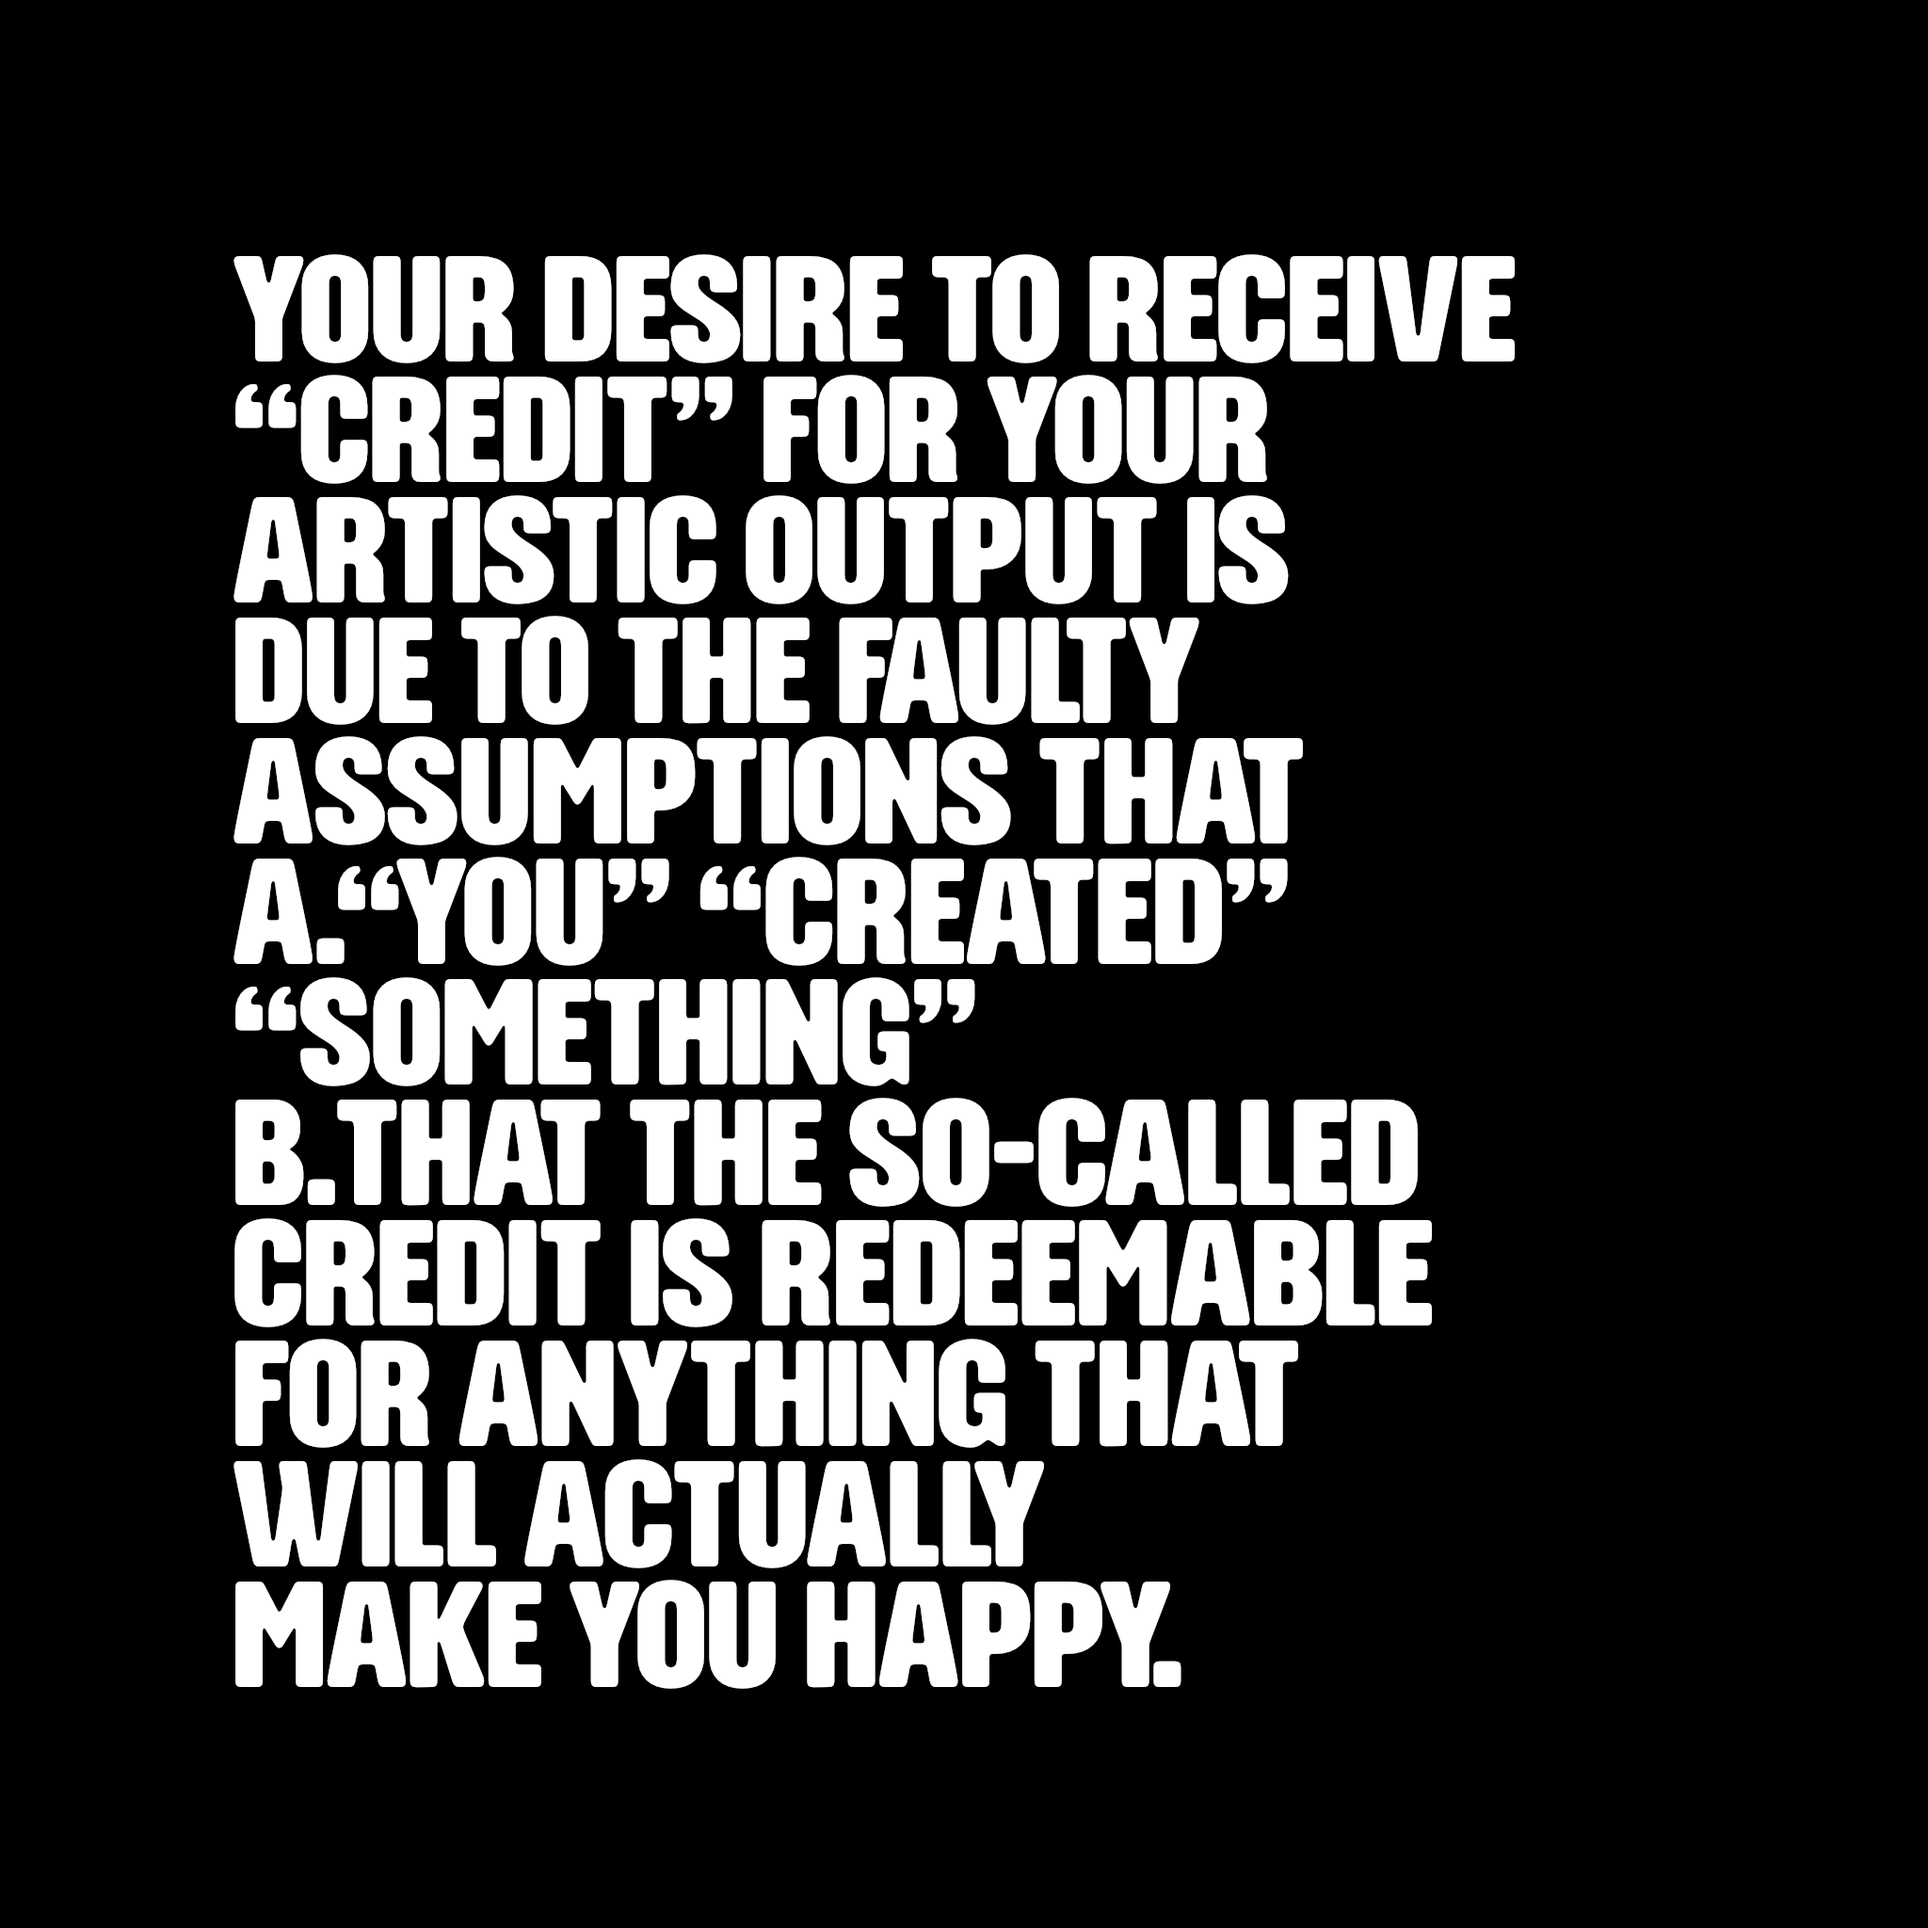
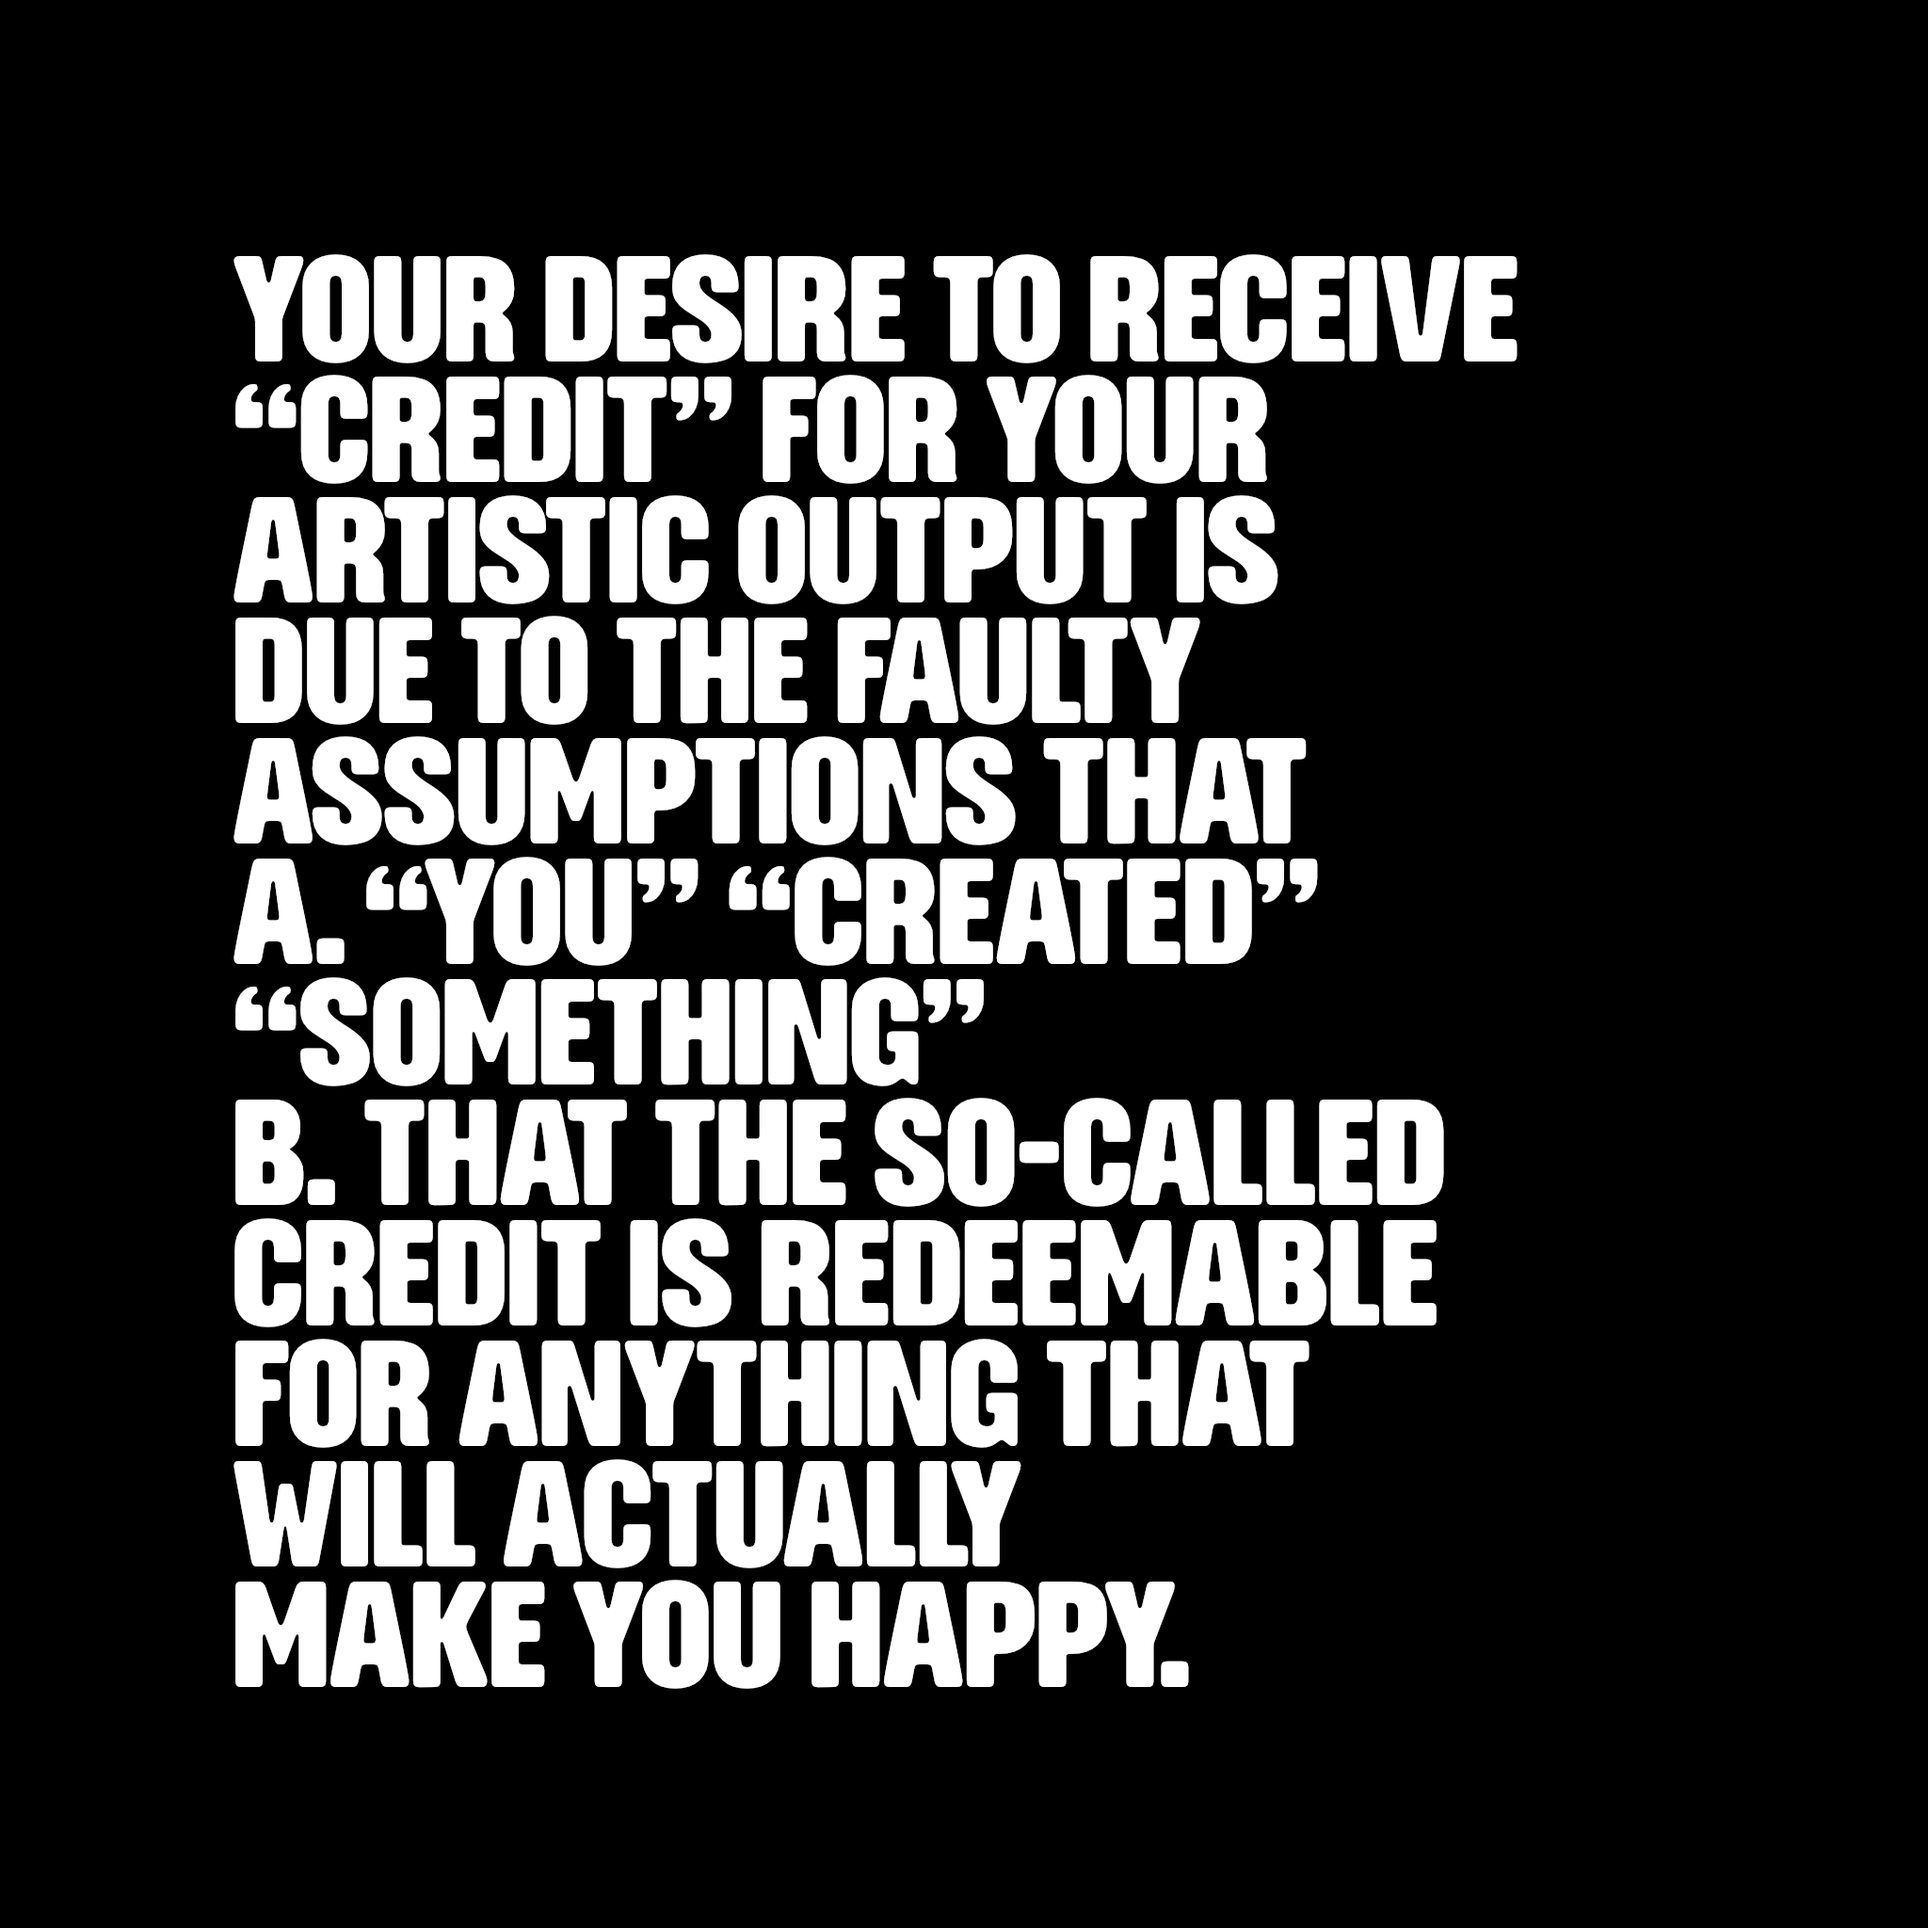
Update DrawBot images

diff --git a/documentation/GTL002-Example-Text-001.py b/documentation/GTL002-Example-Text-001.py
@@ -128,10 +128,10 @@ def draw_main_text():
     text(BIG_TEXT_D, (BIG_TEXT_SIDE_MARGIN-9, UNIT*20))
     text(BIG_TEXT_E, (BIG_TEXT_SIDE_MARGIN-9, UNIT*18))
     text(BIG_TEXT_F, (BIG_TEXT_SIDE_MARGIN-9, UNIT*16))
-    text(BIG_TEXT_F2, (BIG_TEXT_SIDE_MARGIN+100, UNIT*16))
+    text(BIG_TEXT_F2, (BIG_TEXT_SIDE_MARGIN+130, UNIT*16))
     text(BIG_TEXT_G, (BIG_TEXT_SIDE_MARGIN-9, UNIT*14))
     text(BIG_TEXT_H, (BIG_TEXT_SIDE_MARGIN-9, UNIT*12))
-    text(BIG_TEXT_H2, (BIG_TEXT_SIDE_MARGIN+100, UNIT*12))
+    text(BIG_TEXT_H2, (BIG_TEXT_SIDE_MARGIN+130, UNIT*12))
     text(BIG_TEXT_I, (BIG_TEXT_SIDE_MARGIN-9, UNIT*10))
     text(BIG_TEXT_J, (BIG_TEXT_SIDE_MARGIN-9, UNIT*8))
     text(BIG_TEXT_K, (BIG_TEXT_SIDE_MARGIN-9, UNIT*6))
